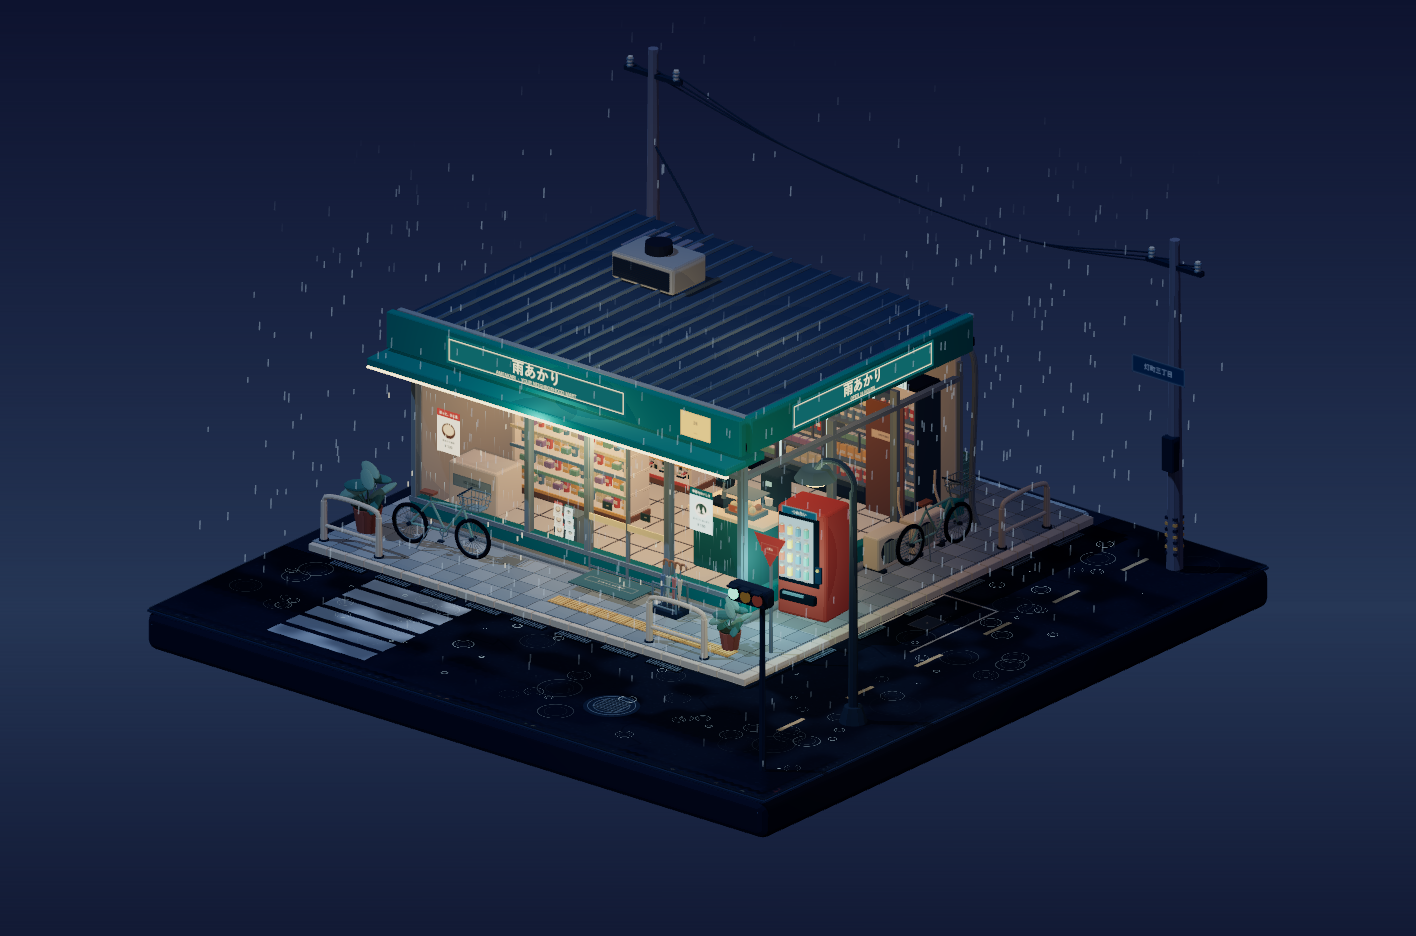
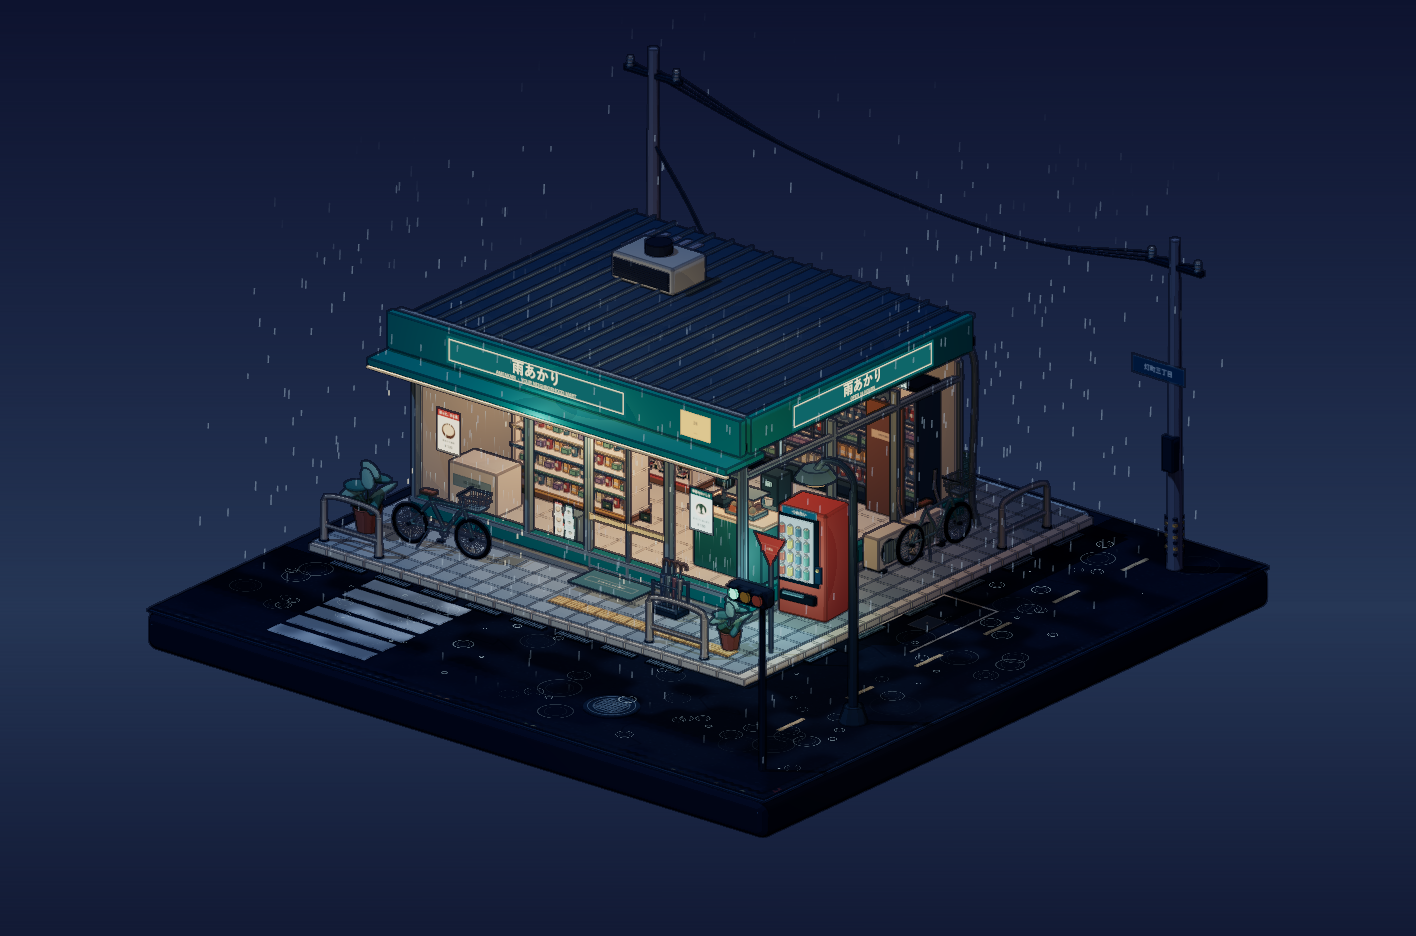
[codex] X-50 add-screen-space-toon-outlines

diff --git a/apps/desktop/e2e/fixtures/rainy-konbini/outline.js b/apps/desktop/e2e/fixtures/rainy-konbini/outline.js
@@ -1,0 +1,106 @@
+import * as T from 'three';
+import { Pass, FullScreenQuad } from 'three/addons/postprocessing/Pass.js';
+
+// Opaque geometry supplies depth and view-space normals, including the goods
+// behind glass. Transparent rain, glazing and ground decals never become ink.
+export class ToonOutlinePass extends Pass {
+  constructor(scene, camera) {
+    super();
+    this.scene = scene;
+    this.camera = camera;
+    this.target = new T.WebGLRenderTarget(1, 1, {
+      minFilter: T.LinearFilter, magFilter: T.LinearFilter, samples: 4,
+      depthTexture: new T.DepthTexture(1, 1, T.UnsignedIntType)
+    });
+    this.normalMaterial = new T.MeshNormalMaterial();
+    this.excluded = [];
+    scene.traverse(object => {
+      if (object.isLine || object.isPoints || object.isReflector ||
+          (object.material && [object.material].flat().some(material => material.transparent))) {
+        this.excluded.push(object);
+      }
+    });
+    this.material = new T.ShaderMaterial({
+      depthTest: false, depthWrite: false,
+      uniforms: {
+        tDiffuse: { value: null }, tNormal: { value: this.target.texture },
+        tDepth: { value: this.target.depthTexture },
+        texel: { value: new T.Vector2(1, 1) }, radius: { value: .9 },
+        ink: { value: new T.Color('#1b2236') }
+      },
+      vertexShader: `varying vec2 vUv; void main() {
+        vUv=uv; gl_Position=projectionMatrix*modelViewMatrix*vec4(position,1.);
+      }`,
+      fragmentShader: `
+        uniform sampler2D tDiffuse,tNormal,tDepth;
+        uniform vec2 texel; uniform float radius; uniform vec3 ink;
+        varying vec2 vUv;
+        vec4 surface(vec2 offset) {
+          vec2 uv=vUv+offset*texel*radius;
+          return vec4(texture2D(tNormal,uv).rgb,texture2D(tDepth,uv).r);
+        }
+        void main() {
+          vec4 a=surface(vec2(-1,1)),b=surface(vec2(0,1)),c=surface(vec2(1,1));
+          vec4 d=surface(vec2(-1,0)),f=surface(vec2(1,0));
+          vec4 g=surface(vec2(-1,-1)),h=surface(vec2(0,-1)),i=surface(vec2(1,-1));
+          vec4 sx=-a-2.*d-g+c+2.*f+i,sy=a+2.*b+c-g-2.*h-i;
+          float normalEdge=smoothstep(.55,1.30,sqrt(dot(sx.xyz,sx.xyz)+dot(sy.xyz,sy.xyz)));
+          float depthEdge=smoothstep(.0035,.009,length(vec2(sx.w,sy.w)));
+          float edge=max(normalEdge*.70,depthEdge);
+          vec4 color=texture2D(tDiffuse,vUv);
+          // Never brighten dark roof/wire silhouettes with the ink colour.
+          gl_FragColor=vec4(mix(color.rgb,min(color.rgb*.45,ink),edge*.82),color.a);
+        }
+      `
+    });
+    this.quad = new FullScreenQuad(this.material);
+    this.clearColor = new T.Color();
+  }
+
+  setSize(width, height) {
+    this.target.setSize(width, height);
+    this.material.uniforms.texel.value.set(1 / width, 1 / height);
+    // A 1.8px silhouette at 1080p, independent of the camera's zoom/distance.
+    this.material.uniforms.radius.value = .9 * height / 1080;
+  }
+
+  render(renderer, writeBuffer, readBuffer) {
+    const { scene } = this;
+    const previous = {
+      background: scene.background, override: scene.overrideMaterial,
+      autoClear: renderer.autoClear, shadowUpdate: renderer.shadowMap.autoUpdate,
+      clearAlpha: renderer.getClearAlpha(), target: renderer.getRenderTarget()
+    };
+    renderer.getClearColor(this.clearColor);
+    const visibility = this.excluded.map(object => object.visible);
+    try {
+      this.excluded.forEach(object => { object.visible = false; });
+      scene.background = null;
+      scene.overrideMaterial = this.normalMaterial;
+      renderer.shadowMap.autoUpdate = false;
+      renderer.autoClear = true;
+      renderer.setClearColor(0x8080ff, 1);
+      renderer.setRenderTarget(this.target);
+      renderer.clear();
+      renderer.render(scene, this.camera);
+    } finally {
+      this.excluded.forEach((object, index) => { object.visible = visibility[index]; });
+      scene.background = previous.background;
+      scene.overrideMaterial = previous.override;
+      renderer.shadowMap.autoUpdate = previous.shadowUpdate;
+      renderer.autoClear = previous.autoClear;
+      renderer.setClearColor(this.clearColor, previous.clearAlpha);
+      renderer.setRenderTarget(previous.target);
+    }
+    this.material.uniforms.tDiffuse.value = readBuffer.texture;
+    renderer.setRenderTarget(this.renderToScreen ? null : writeBuffer);
+    this.quad.render(renderer);
+  }
+
+  dispose() {
+    this.target.dispose();
+    this.normalMaterial.dispose();
+    this.material.dispose();
+    this.quad.dispose();
+  }
+}

diff --git a/apps/desktop/e2e/fixtures/rainy-konbini/main.js b/apps/desktop/e2e/fixtures/rainy-konbini/main.js
@@ -8,6 +8,7 @@ import { craft } from './craft.js';
 import { buildStore } from './store.js';
 import { buildStreet } from './street.js';
 import { weather } from './weather.js';
+import { ToonOutlinePass } from './outline.js';
 
 const scene=new T.Scene();scene.fog=new T.Fog('#263348',30,68);
 const renderer=new T.WebGLRenderer({antialias:true,powerPreference:'high-performance'});
@@ -29,10 +30,11 @@ const statistics=c.batchStatic(),effects=weather(scene,c,shop);
 const bounds=new T.Box3().setFromObject(c.root);
 const target=new T.WebGLRenderTarget(innerWidth,innerHeight,{samples:4,type:T.HalfFloatType});
 const composer=new EffectComposer(renderer,target);composer.addPass(new RenderPass(scene,camera));
-const bloom=new UnrealBloomPass(new T.Vector2(innerWidth,innerHeight),.16,.32,1.25);composer.addPass(bloom);composer.addPass(new OutputPass());
+const bloom=new UnrealBloomPass(new T.Vector2(innerWidth,innerHeight),.16,.32,1.25);composer.addPass(bloom);
+const outline=new ToonOutlinePass(scene,camera);composer.addPass(outline);composer.addPass(new OutputPass());
 const resize=()=>{const aspect=innerWidth/innerHeight;camera.left=-9*aspect;camera.right=9*aspect;camera.top=9;camera.bottom=-9;camera.updateProjectionMatrix();renderer.setSize(innerWidth,innerHeight);composer.setSize(innerWidth,innerHeight);};resize();addEventListener('resize',resize);
 let start=performance.now(),previous=start,frame=0;const frameTimes=[];
-const audit={ready:false,scene,camera,controls,renderer,statistics,features:c.features,bounds:{min:bounds.min.toArray(),max:bounds.max.toArray()},effects,shop,street,elapsed:0,frameTimes,errors:[]};
+const audit={ready:false,scene,camera,controls,renderer,outline,statistics,features:c.features,bounds:{min:bounds.min.toArray(),max:bounds.max.toArray()},effects,shop,street,elapsed:0,frameTimes,errors:[]};
 window.rainyKonbini=audit;
 addEventListener('error',e=>audit.errors.push(e.message));addEventListener('unhandledrejection',e=>audit.errors.push(String(e.reason)));
 const colors=[new T.Color('#69c5a4'),new T.Color('#ebbe65'),new T.Color('#e88173')];

diff --git a/apps/desktop/e2e/fixtures/rainy-konbini/craft.js b/apps/desktop/e2e/fixtures/rainy-konbini/craft.js
@@ -8,7 +8,6 @@ export function craft(scene) {
   const features = {}, materials = new Map(), geometries = new Map();
   const bands = new T.DataTexture(new Uint8Array([55, 105, 175, 255]), 4, 1, T.RedFormat);
   bands.minFilter = bands.magFilter = T.NearestFilter; bands.needsUpdate = true;
-  const ink = new T.LineBasicMaterial({ color: 0x172332, transparent: true, opacity: .58 });
   function toon(color, emission = 0) {
     const key = `${color}/${emission}`;
     if (!materials.has(key)) materials.set(key, new T.MeshToonMaterial({ color, gradientMap: bands, emissive: color, emissiveIntensity: emission }));
@@ -63,16 +62,14 @@ export function craft(scene) {
   }
   // Merge the static authored meshes by material. Dynamic doors and effects stay separate.
   function batchStatic() {
-    root.updateMatrixWorld(true);const batches=new Map(),edges=[],remove=[];
+    root.updateMatrixWorld(true);const batches=new Map(),remove=[];
     root.traverse(o=>{
       if(!o.isMesh||o.material.transparent||o.userData.dynamic||o.isReflector)return;
       for(let p=o.parent;p&&p!==root;p=p.parent)if(p.userData.dynamic)return;
       const g=(o.geometry.index?o.geometry.toNonIndexed():o.geometry.clone()).applyMatrix4(o.matrixWorld);const list=batches.get(o.material)??[];list.push(g);batches.set(o.material,list);remove.push(o);
-      if(o.geometry.type!=='PlaneGeometry'&&o.geometry.parameters?.width>.38){const e=new T.EdgesGeometry(o.geometry,32);e.applyMatrix4(o.matrixWorld);edges.push(e);}
     });
     for(const o of remove)o.removeFromParent();
     for(const [mat,gs] of batches){const m=mesh(mergeGeometries(gs,false),mat,[0,0,0]);m.name='static-'+mat.uuid;gs.forEach(g=>g.dispose());}
-    if(edges.length){const lines=new T.LineSegments(mergeGeometries(edges,false),ink);lines.name='architectural-ink';root.add(lines);edges.forEach(g=>g.dispose());}
     return {authoredMeshes:remove.length,batches:batches.size};
   }
   return {root,features,toon,glow,mesh,box,cylinder,sphere,tube,rod,group,label,poster,canvasTexture,batchStatic};

diff --git a/docs/design/World-rainy-konbini.md b/docs/design/World-rainy-konbini.md
@@ -6,7 +6,9 @@
 
 江浩提供日式微缩景观参考，指定 **三渲二**，要求能自由旋转、平移、缩放观看的雨夜便利店街角；画面没有 UI、没有人物。此次只交付独立环境样板。人物自建停止，人物导入和适配留到后续；已下载的公开模型仅本地留存备用。
 
-协作只在 GitHub 进行。江浩希望 C酱以 Opus 5.5 独立会话协助；是否接单及评审结论以 #252 回复为准。此文不表示已完成独立评审。
+协作只在 GitHub 进行。C酱已在 [#253 第一轮评审](https://github.com/aa15119557034/agent-review-room/pull/253#issuecomment-6914180828) 提出建模指导；江浩指定先做 1～3，四机位逐步对比后交 C酱复审，4～7 暂不实施。
+
+第二轮进度：第 1 项已将旧 `EdgesGeometry` 改为深度＋法线屏幕空间描边，1080p 标称约 1.8px，统一深靛色，透明玻璃和雨水不参与描线。下方四张静帧已更新到该阶段；性能报告及录像暂仍对应第一轮，完成 1～3 后统一重跑更新。
 
 样板是 `apps/desktop/e2e/fixtures/rainy-konbini/` 中的独立 Three.js 场景，复用 #246 的既有 Three.js 0.187.0、Vite 和 Electron 依赖。因此 PR 叠在 `codex/X-45-world-3d` 上；现有共享小屋的未提交美术改动原样保留。本次没有改世界规则、存档、IPC、模型节点或生产页面入口。
 
@@ -15,7 +17,7 @@
 - 14 × 14 的完整正方形底座，前侧与右侧街道组成街角，后侧留有装卸窄巷。
 - 便利店的大玻璃后有实际货架、饮料冷柜、便当／饭团／零食、收银台、咖啡机、关东煮柜、杂志架、冰柜、后场门、地面导视与灯箱。
 - 街道包含自动贩卖机、两辆自行车、伞架、分类桶、路灯、电杆与下垂电线、路牌、护栏、停车位、排水沟、井盖、斑马线、公告栏、空调外机、配送筐和花盆。旋转到背面可见装卸门、磨砂窗、电表箱与线管。
-- 四级明暗的 toon 材质加几何轮廓线；干净的贴图和原创招牌。室内琥珀灯光、室外蓝紫夜色、玻璃、局部积水反射及克制的泛光。
+- 四级明暗的 toon 材质加深度／法线轮廓线；干净的贴图和原创招牌。室内琥珀灯光、室外蓝紫夜色、玻璃、局部积水反射及克制的泛光。
 - 持续雨、檐口滴水、积水涟漪、玻璃雨痕、招牌照明轻微变化、交通灯变化；自动门每 26 秒完成一次维护开合。门上的雨痕随门片移动。
 - 左键拖拽旋转；右键拖拽平移；滚轮缩放。场景内没有按钮、说明文字或调试面板；招牌、海报和交通标识是场景物体。
 
